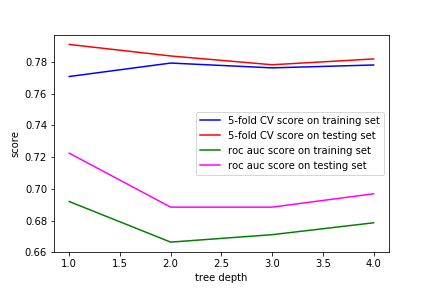
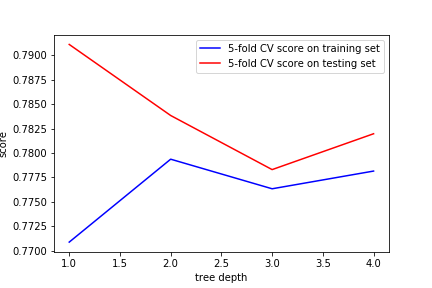
Print y_pred and remove roc_auc

diff --git a/KNN.py b/KNN.py
@@ -1,14 +1,8 @@
-# -*- coding: utf-8 -*-
-"""
-Spyder Editor
-
-This is a temporary script file.
-"""
+# nhập các thư viện
 import numpy as np
 from sklearn.neighbors import KNeighborsClassifier
 from sklearn.preprocessing import OneHotEncoder, LabelBinarizer
 from sklearn.model_selection import train_test_split, cross_val_score
-from sklearn.metrics import roc_auc_score
 from matplotlib import pyplot as plt
 
 # đọc file
@@ -19,12 +13,14 @@ f.close()
 X = data[:, :3]
 Y = data[:, 3]
 
+before  = X[:3]
+
 # one hot encode các features và nhãn để công bằng trong việc so sánh các giá
 # trị của các features
 X_ohe = OneHotEncoder(handle_unknown="ignore")
 X_ohe.fit(X)
 X = X_ohe.transform(X)
-
+after = X[:3]
 Y_ohe = LabelBinarizer()
 Y_ohe.fit(Y)
 Y = Y_ohe.transform(Y)
@@ -35,35 +31,27 @@ x_train, x_test, y_train, y_test = train_test_split(X, Y, test_size = 0.25, rand
 # model để phân lớp 1-NN => đầu ra
 OneNNClassifier = KNeighborsClassifier(n_neighbors=2, weights = 'distance').fit(x_train, y_train.ravel())
 y_pred_1NN = Y_ohe.inverse_transform(OneNNClassifier.predict(x_test))
+print('Prediction result for first 10 test examples:')
+print(y_pred_1NN[:15])
 
 # xây dựng model KNN với số các neighbors khác nhau để tìm được số tốt nhất từ 3->30
 numberOfNeighbors = [i for i in range(3,30)]
 trainingScore5fcv = []
 testingScore5fcv = []
-trainingScoreRocAuc = []
-testingScoreRocAuc = []
 
 for i in numberOfNeighbors:
-    knnClassifier = KNeighborsClassifier(n_neighbors=i, weights = 'distance').fit(x_train, y_train.ravel())
+    knnClassifier = KNeighborsClassifier(algorithm= 'brute',n_neighbors=i, weights = 'distance').fit(x_train, y_train.ravel())
     score = np.mean(cross_val_score(knnClassifier, x_train, y_train.ravel(), cv = 5))
     trainingScore5fcv.append(score)
     score = np.mean(cross_val_score(knnClassifier, x_test, y_test.ravel(), cv = 5))
     testingScore5fcv.append(score)
-    roc_auc = roc_auc_score(y_train, knnClassifier.predict(x_train))
-    trainingScoreRocAuc.append(roc_auc)
-    roc_auc = roc_auc_score(y_test, knnClassifier.predict(x_test))
-    testingScoreRocAuc.append(roc_auc)
-
 
 # vẽ biểu đồ, so sánh độ chính xác giữa những số neighbors và giữa trên training set vs test set
 plt.plot(numberOfNeighbors, trainingScore5fcv, 'b', label = '5-fold CV score on training set')
 plt.plot(numberOfNeighbors, testingScore5fcv, 'r', label = '5-fold CV score on testing set')
-plt.plot(numberOfNeighbors, trainingScoreRocAuc, 'g', label = 'roc auc score on training set')
-plt.plot(numberOfNeighbors, testingScoreRocAuc, 'magenta', label = 'roc auc score on testing set')
 plt.legend()
 plt.ylim(0,1)
 plt.ylabel('score')
 plt.xlabel('n-neighbor')
 plt.savefig('knn.png')
 plt.show()
-

diff --git a/DecisionTree.py b/DecisionTree.py
@@ -1,9 +1,4 @@
-# -*- coding: utf-8 -*-
-"""
-Created on Fri Mar 29 17:25:28 2019
-
-@author: tien
-"""
+# nhập thư viện cần dùng
 import numpy as np
 from sklearn.tree import DecisionTreeClassifier
 from sklearn.preprocessing import OneHotEncoder, LabelBinarizer
@@ -35,13 +30,12 @@ x_train, x_test, y_train, y_test = train_test_split(X, Y, test_size = 0.25, rand
 dt = DecisionTreeClassifier()
 dt.fit(x_train, y_train)
 y_pred = Y_ohe.inverse_transform(dt.predict(x_test))
-
+print('Prediction result for first 10 test examples:')
+print(y_pred[:10])
 # điều chỉnh model theo độ cao cây tối đa và so sánh độ chính xác bằng 5-fold cv
 depths = [i for i in range(1, 5)]
 trainingScore5fcv = []
 testingScore5fcv = []
-trainingScoreRocAuc = []
-testingScoreRocAuc = []
 
 for i in depths:
     dtc = DecisionTreeClassifier(max_depth=i).fit(x_train, y_train.ravel())
@@ -49,16 +43,10 @@ for i in depths:
     trainingScore5fcv.append(score)
     score = np.mean(cross_val_score(dtc, x_test, y_test.ravel(), cv = 5))
     testingScore5fcv.append(score)
-    roc_auc = roc_auc_score(y_train, dtc.predict(x_train))
-    trainingScoreRocAuc.append(roc_auc)
-    roc_auc = roc_auc_score(y_test, dtc.predict(x_test))
-    testingScoreRocAuc.append(roc_auc)
 
 # vẽ biểu đồ, so sánh độ chính xác giữa những số neighbors và giữa trên training set vs test set
 plt.plot(depths, trainingScore5fcv, 'b', label = '5-fold CV score on training set')
 plt.plot(depths, testingScore5fcv, 'r', label = '5-fold CV score on testing set')
-plt.plot(depths, trainingScoreRocAuc, 'g', label = 'roc auc score on training set')
-plt.plot(depths, testingScoreRocAuc, 'magenta', label = 'roc auc score on testing set')
 plt.legend()
 plt.ylabel('score')
 plt.xlabel('tree depth')
